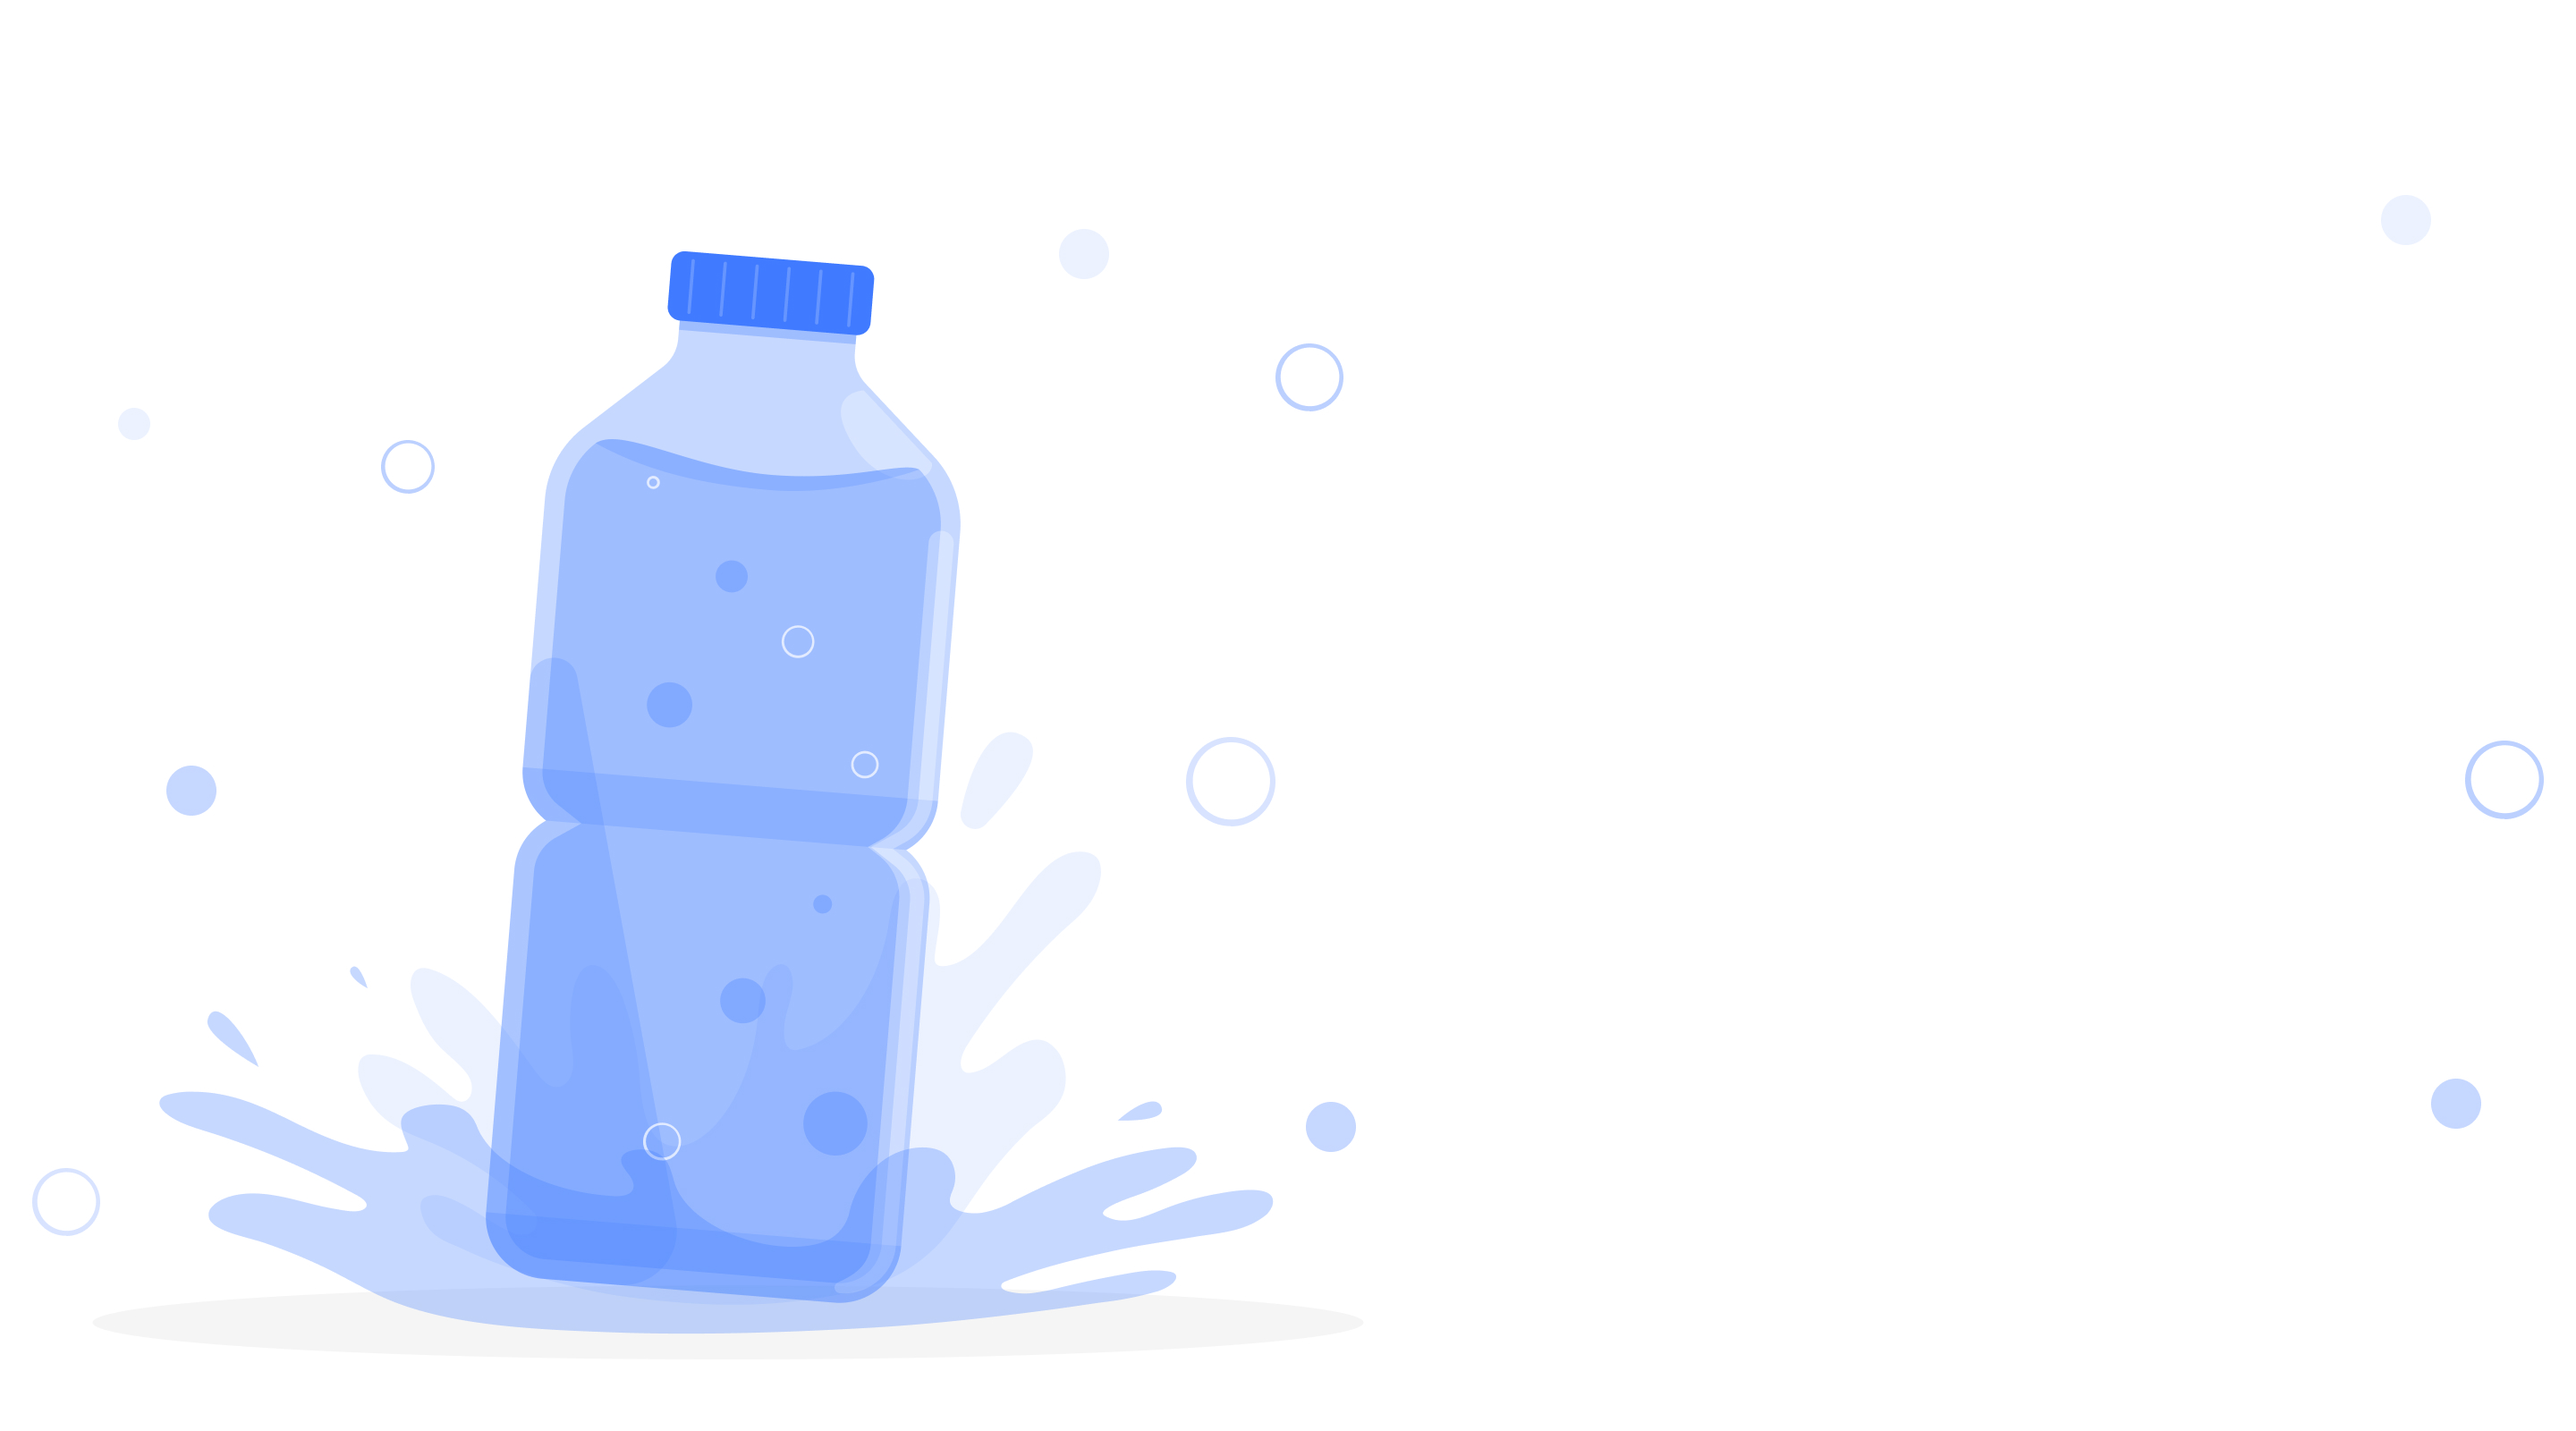
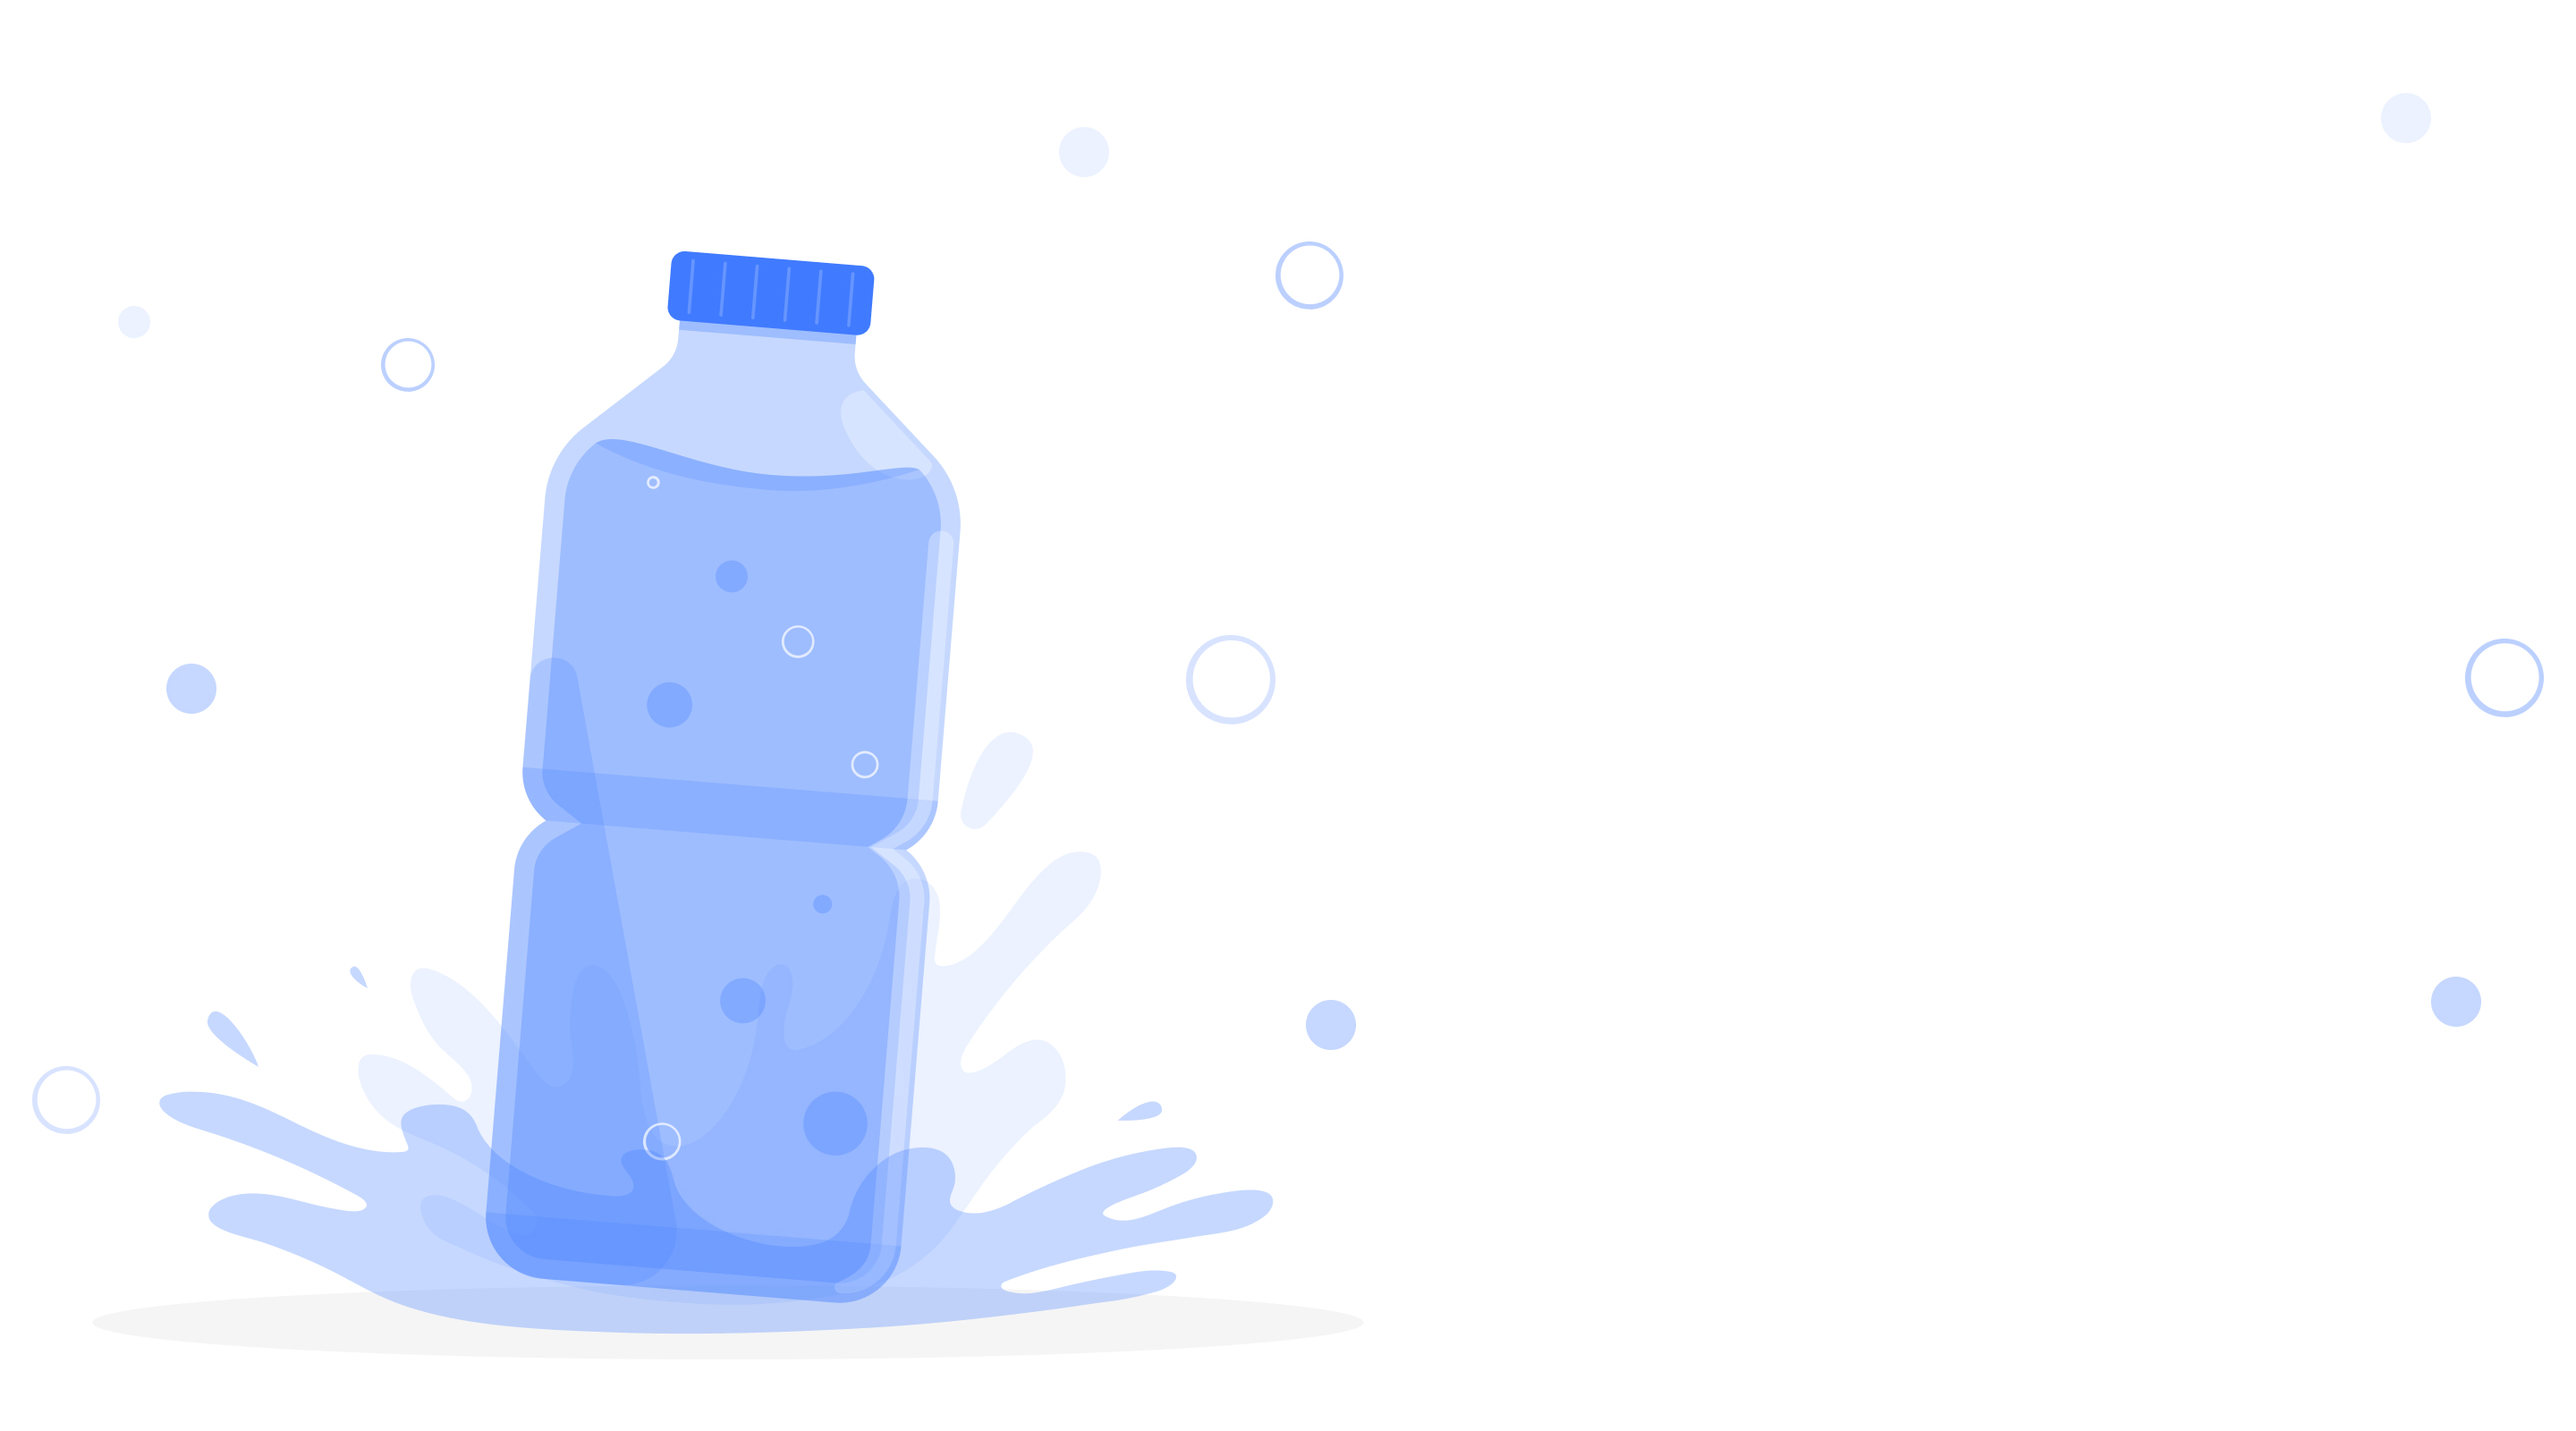
background x2 changes

diff --git a/src/pages/SigninPage/SigninPage.module.css b/src/pages/SigninPage/SigninPage.module.css
@@ -17,6 +17,14 @@ img {
     flex-direction: column;
 }
 
+@media (-webkit-min-device-pixel-ratio: 2),
+(min-resolution: 192dpi) {
+    .signinpage {
+        background-image: url('../../img/signInImg/backgroundSignPageMob2x.jpg');
+        /* Мобілка фон 2x */
+    }
+}
+
 @media screen and (min-width: 768px) {
     .signinpage {
         background-image: url('../../img/signInImg/backgroundSignPageTab1x.jpg'); /* Планшет фон 1x */
@@ -26,12 +34,27 @@ img {
     }
 }
 
+@media (min-width: 768px) and (-webkit-min-device-pixel-ratio: 2),
+(min-width: 768px) and (min-resolution: 192dpi) {
+    .signinpage {
+        background-image: url('../../img/signInImg/backgroundSignPageTab2x.jpg');
+        /* Планшет фон 2x */
+    }
+}
 
 @media screen and (min-width: 1440px) {
     .signinpage {
         background-image: url('../../img/signInImg/backgroundSignPageDesk1x.jpg');/* Десктоп фон 1x */
         max-width: 1440px;
         margin: 0 auto 44px;
+    }
+}
+
+@media (min-width: 1440px) and (-webkit-min-device-pixel-ratio: 2),
+(min-width: 1440px) and (min-resolution: 192dpi) {
+    .signinpage {
+        background-image: url('../../img/signInImg/backgroundSignPageDesk2x.jpg');
+        /* Десктопное изображение 2x */
     }
 }
 
